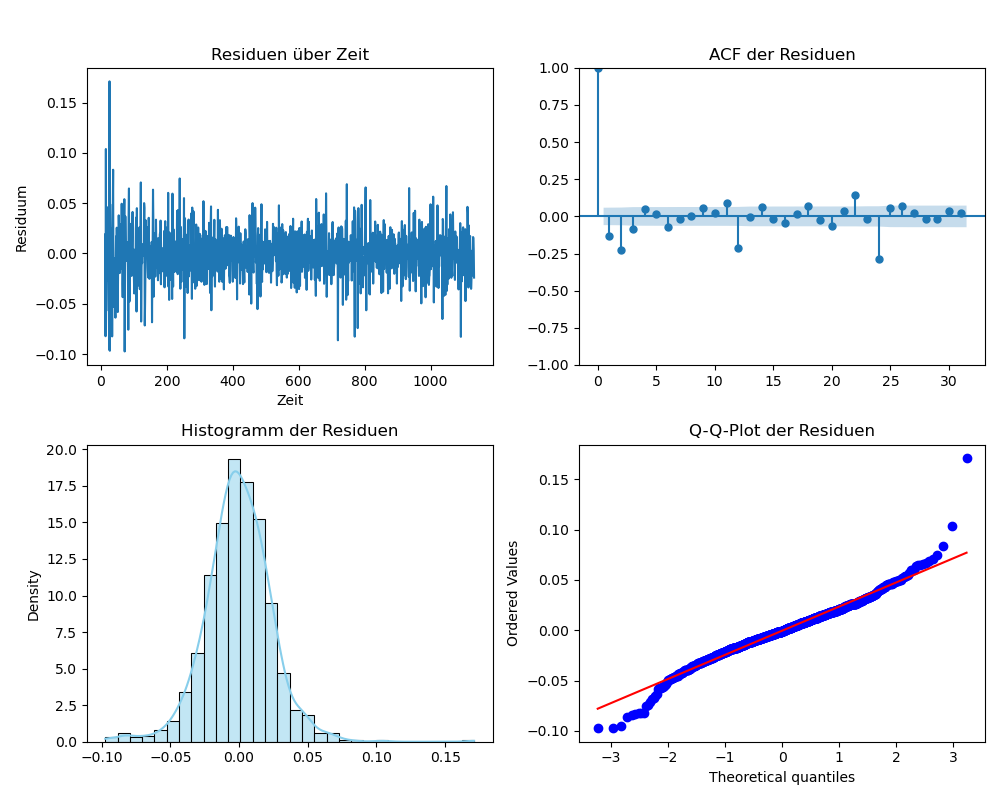
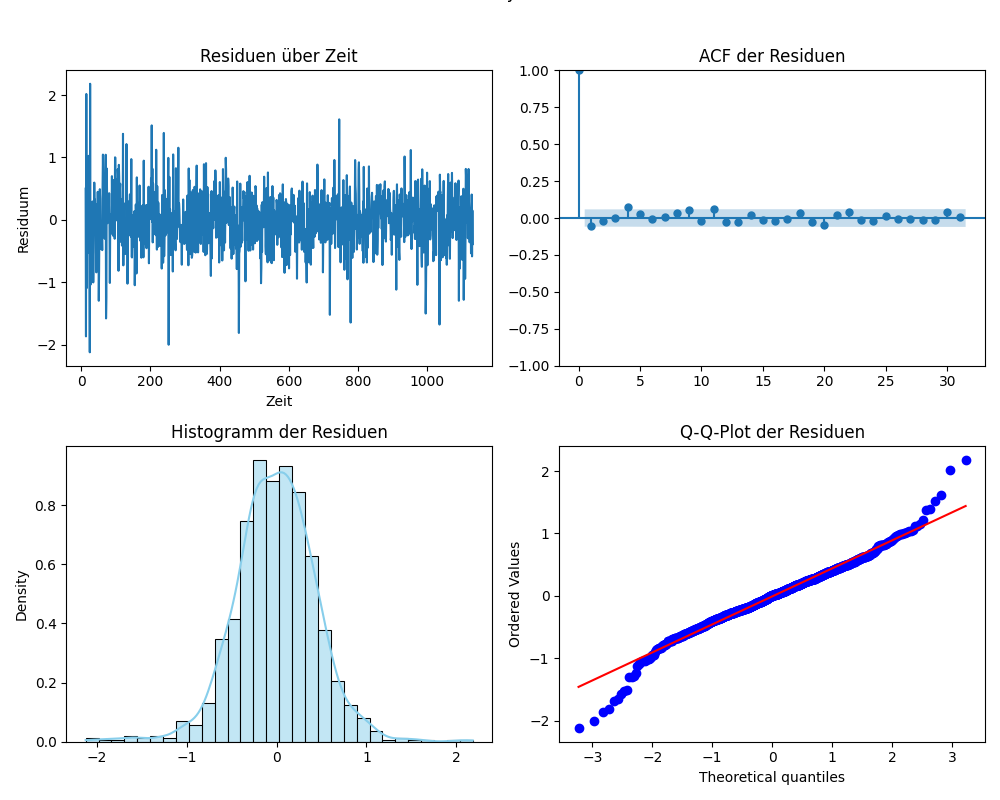
fix: Parameterübergabe expandiing window

diff --git a/config.py b/config.py
@@ -25,6 +25,19 @@ df_seasonal_diff_berlin = df_seasonal_diff_berlin[['Datum', 'MonatlicheDurchschn
 
 
 df_angeles = pd.read_csv(PATH_TS_ANGELES_CLEAN)
+#print(df_angeles)
+
+#Test
+#df_angeles['Datum'] = pd.to_datetime(df_angeles['Datum'])
+#df_angeles.set_index('Datum', inplace=True)
+
+# Series extrahieren (nicht differenziert)
+#original_angeles = df_angeles['MonatlicheDurchschnittsTemperatur']
+#print(original_angeles)
+
+
+
+
 #Series
 temp_diff_angeles = df_angeles['MonatlicheDurchschnittsTemperatur'].diff(1).dropna()
 seasonal_diff_angeles = temp_diff_angeles.diff(12).dropna()

diff --git a/module/stationaritätstest.py b/module/stationaritätstest.py
@@ -13,7 +13,7 @@ import config
 
 def main():
     
-    timeseries = config.df_seasonal_diff
+    timeseries = config.df_seasonal_diff_angeles
     
     
     # 3. Kruskal-Wallis-Test durchführen (Prüfung auf saisonale Unterschiede)

diff --git a/parameter/sarima_params_angeles.py b/parameter/sarima_params_angeles.py
@@ -2,6 +2,6 @@
 # Generiert am 2025-05-11 18:11:23
 
 name = 'angeles'
-order = (2, 1, 2)
-seasonal_order = (1, 1, 1, 12)
+order = (2, 0, 2)
+seasonal_order = (1, 0, 1, 12)
 aic = 2486.5868702767766

diff --git a/parameter/sarima_params_abakan.py b/parameter/sarima_params_abakan.py
@@ -3,5 +3,5 @@
 
 name = 'abakan'
 order = (0, 0, 2)
-seasonal_order = (1, 1, 1, 12)
+seasonal_order = (1, 0, 1, 12)
 aic = 7898.436656790158

diff --git a/parameter/sarima_params_berlin.py b/parameter/sarima_params_berlin.py
@@ -3,5 +3,5 @@
 
 name = 'berlin'
 order = (1, 0, 1)
-seasonal_order = (3, 1, 0, 12)
+seasonal_order = (3, 0, 0, 12)
 aic = 7084.126530244598

diff --git a/results/model_parameters/angeles_params.py b/results/model_parameters/angeles_params.py
@@ -1,4 +1,4 @@
 name = 'angeles'
-order = (2, 1, 1)
+order = (2, 0, 1)
 seasonal_order = (1, 0, 1, 12)
 aic = 1993.9521023202965

diff --git a/results/model_parameters/berlin_params.py b/results/model_parameters/berlin_params.py
@@ -1,4 +1,4 @@
 name = 'berlin'
-order = (1, 1, 2)
+order = (1, 0, 2)
 seasonal_order = (1, 0, 1, 12)
 aic = 6995.4783050206115
